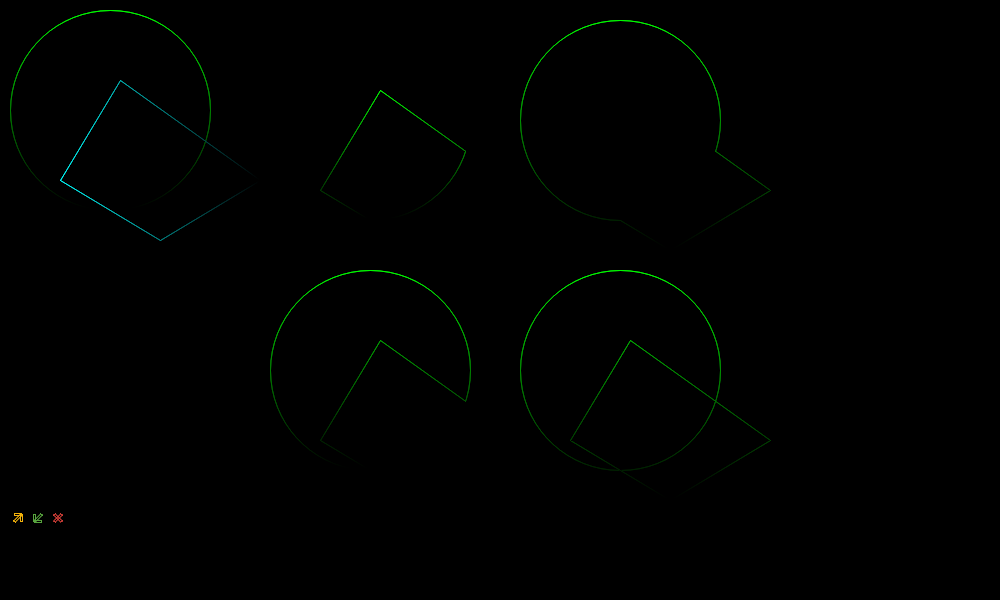
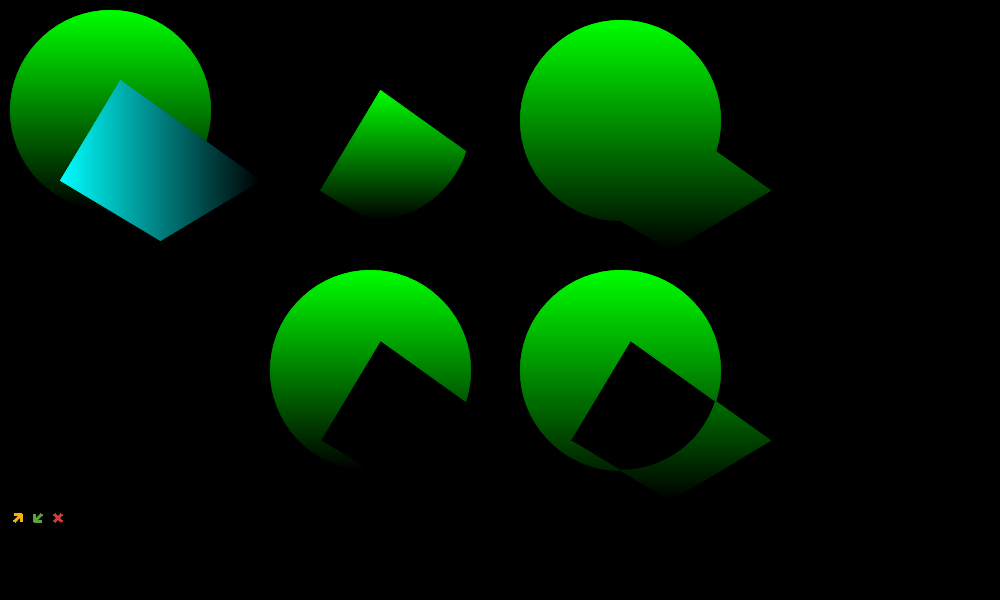
Adding test code to fix artifact in Hmi

diff --git a/src/Pt-Gfx/Rasterizer2_Polygon.cpp b/src/Pt-Gfx/Rasterizer2_Polygon.cpp
@@ -210,7 +210,7 @@ void Rasterizer2::rasterPolygonAreaXWAA(const PointF* points, const size_t* poin
                 scanlines[pixelY - minY + 1].push_back(ScanlineElement16(from, to));
             }
             // Draw the scanline
-            //rasterScanline(from - minX, to - minX, pixelY - minY, minX, minY, color);
+            rasterScanline(from - minX, to - minX, pixelY - minY, minX, minY, color);
         }
     }
 

diff --git a/src/Pt-Gfx/tests/ImagePainterTest2_Draw_Path.cpp b/src/Pt-Gfx/tests/ImagePainterTest2_Draw_Path.cpp
@@ -374,7 +374,7 @@ static void testDrawPathClipping(const char* title, Image& image, Painter& paint
     ip2->setBrush(brush1);
     ip2->fillPolygon(clipPointsF.data(), clipPointsF.size());
 
-    // Testing
+    // Testing Hmi window buttons' icons
     col = 0;
     row = 2;
 
